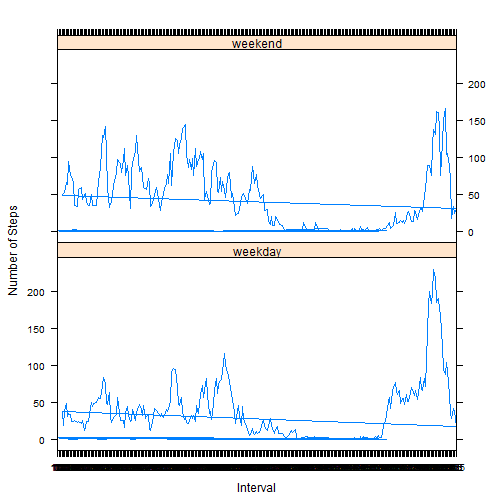
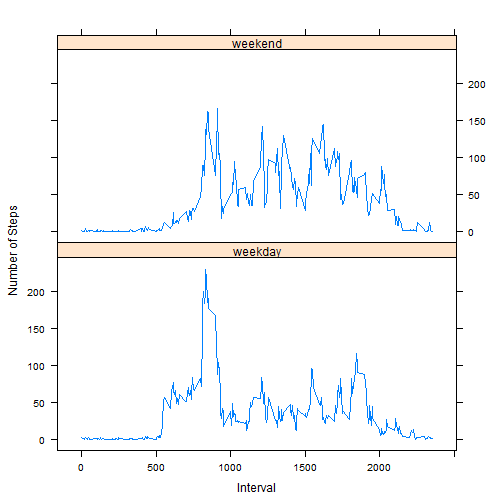
Updated Project
Corrected remaining last part with weekdays/weekends plot.

diff --git a/PA1_template.html b/PA1_template.html
@@ -331,19 +331,18 @@ colnames(data)[4] = &quot;day&quot;
 <li>Time series plot of 5-minute interval and average number of steps taken on weekdays and weekends</li>
 </ul>
 
-<pre><code class="r">s &lt;- split(data, data$day) # Split on basis of type of day
-t &lt;- tapply(s[[1]][,1], s[[1]][,3], mean) # Calculate weekday mean
-u &lt;- tapply(s[[2]][,1], s[[2]][,3], mean) # Calculate weekend mean
-b &lt;- data.frame(names(t), t, &quot;weekday&quot;) # Create new data frame for weekday
-colnames(b)&lt;-c(&quot;Interval&quot;, &quot;AverageSteps&quot;, &quot;Day&quot;)
-c &lt;- data.frame(names(u), u, &quot;weekend&quot;) # Create new data frame for weekend
-colnames(c)&lt;-c(&quot;Interval&quot;, &quot;AverageSteps&quot;, &quot;Day&quot;)
-b &lt;- rbind(b, c) # Join data frames
+<pre><code class="r">MeanDayType = aggregate(data$steps, by = list(data$interval, data$day), FUN = mean)
+names(MeanDayType) = c(&quot;Interval&quot;, &quot;DayType&quot;, &quot;MeanSteps&quot;)
 library(lattice)
-xyplot(AverageSteps ~ Interval | Day, data = b, layout = c(1,2), type=&quot;l&quot;, ylab=&quot;Number of Steps&quot;) 
 </code></pre>
 
[1 lines of base64/hex data omitted]
+<pre><code>## Warning: package &#39;lattice&#39; was built under R version 3.0.3
+</code></pre>
+
+<pre><code class="r">xyplot(MeanSteps ~ Interval | DayType, data = MeanDayType, layout = c(1,2), type=&quot;l&quot;, ylab=&quot;Number of Steps&quot;)
+</code></pre>
+
[1 lines of base64/hex data omitted]
 
 </body>
 

diff --git a/PA1_template.md b/PA1_template.md
@@ -142,16 +142,17 @@ colnames(data)[4] = "day"
 
 
 ```r
-s <- split(data, data$day) # Split on basis of type of day
-t <- tapply(s[[1]][,1], s[[1]][,3], mean) # Calculate weekday mean
-u <- tapply(s[[2]][,1], s[[2]][,3], mean) # Calculate weekend mean
-b <- data.frame(names(t), t, "weekday") # Create new data frame for weekday
-colnames(b)<-c("Interval", "AverageSteps", "Day")
-c <- data.frame(names(u), u, "weekend") # Create new data frame for weekend
-colnames(c)<-c("Interval", "AverageSteps", "Day")
-b <- rbind(b, c) # Join data frames
+MeanDayType = aggregate(data$steps, by = list(data$interval, data$day), FUN = mean)
+names(MeanDayType) = c("Interval", "DayType", "MeanSteps")
 library(lattice)
-xyplot(AverageSteps ~ Interval | Day, data = b, layout = c(1,2), type="l", ylab="Number of Steps") 
+```
+
+```
+## Warning: package 'lattice' was built under R version 3.0.3
+```
+
+```r
+xyplot(MeanSteps ~ Interval | DayType, data = MeanDayType, layout = c(1,2), type="l", ylab="Number of Steps")
 ```
 
 ![plot of chunk unnamed-chunk-12](figure/unnamed-chunk-12.png) 
